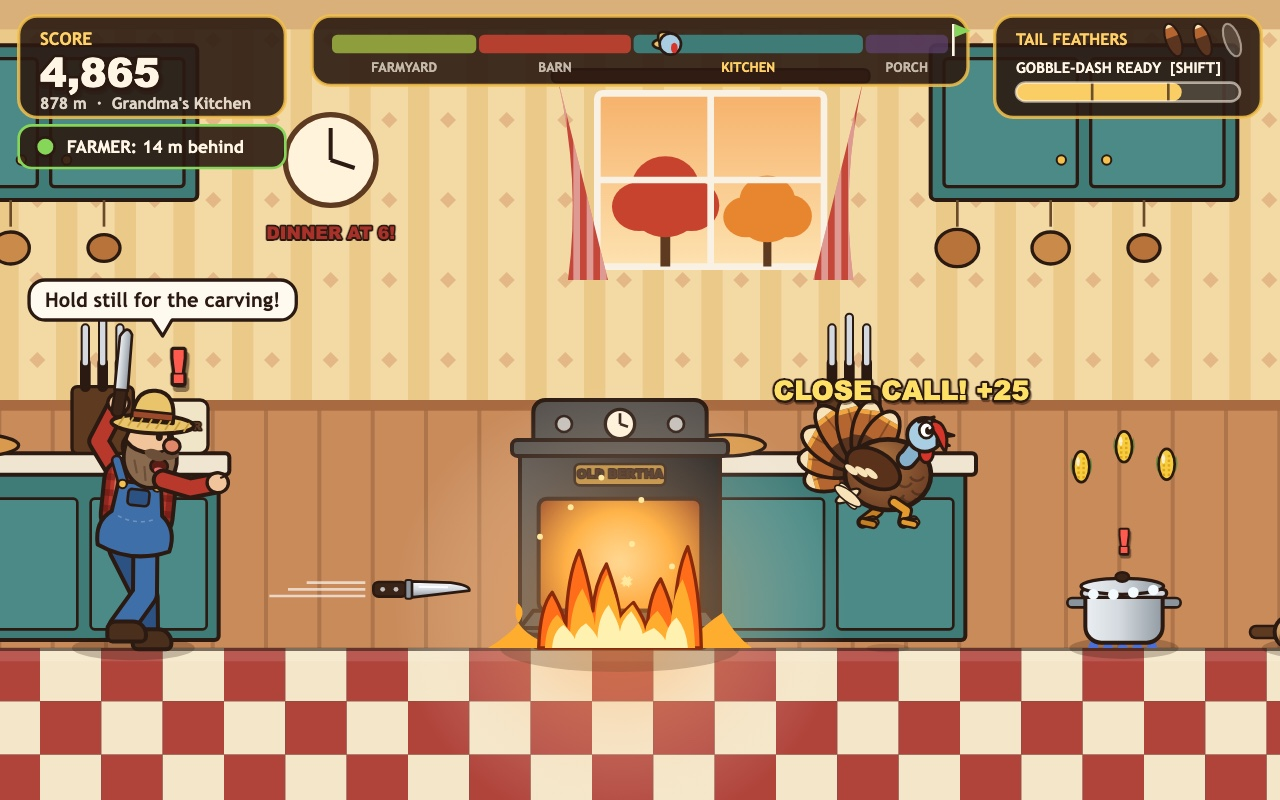
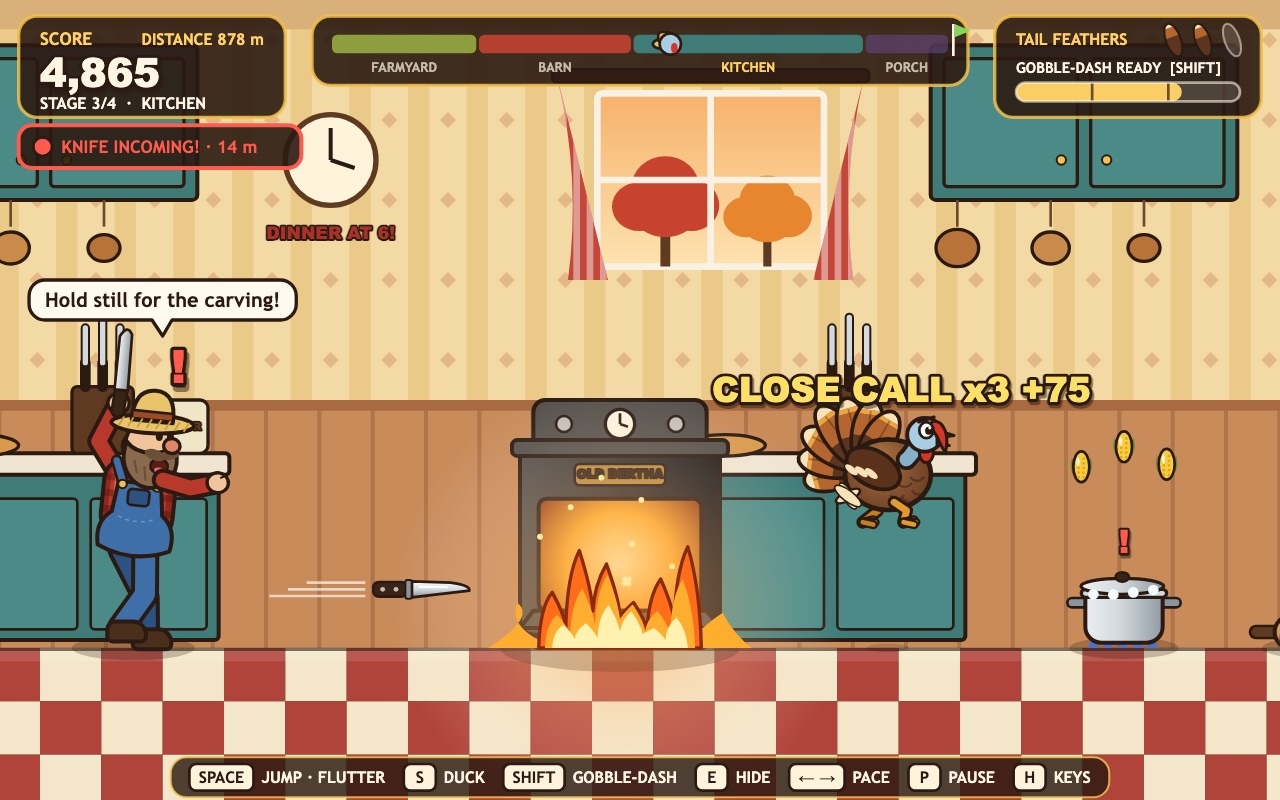
feat: v2 screenshots and README
The cover shows the kitchen chase with the farmer chip, STAGE 3/4, a
x3 close-call combo and the key strip; the title shows the route to
the woods and the wrong-haystack search; a new barn shot shows the
farmer cornering Tom; the end screen shows the medals.

diff --git a/game/src/shots.js b/game/src/shots.js
@@ -8,8 +8,11 @@ import { createRun } from './run.js';
 import { addEntity } from './course.js';
 import { spawnPopup, spawnBurst } from './particles.js';
 import { sayLine } from './farmer.js';
+import { startAmbush } from './ambush.js';
 
-const SAMPLE_BEST = { score: 8640, meters: 1600, escapes: 2 };
+export function stageShot(game, name) {
+  (SHOTS[name] ?? SHOTS.title)(game);
+}
 
 function freshRun(game, stageIndex, time) {
   const run = createRun(game.seed);
@@ -52,7 +55,8 @@ function stageKitchenChase(game) {
   run.score = 4865;
   run.farthestX = turkey.x;
   run.stats.corn = 168;
-  spawnPopup(run.popups, { text: 'CLOSE CALL! +25', x: turkey.x + 10, y: turkey.y - 108, color: '#ffe066', size: 20, life: 0.9 });
+  run.stats.closeCalls = 3;
+  spawnPopup(run.popups, { text: 'CLOSE CALL x3 +75', x: turkey.x + 10, y: turkey.y - 108, color: '#ffe066', size: 26, life: 0.9 });
   run.popups[0].maxLife = 1.1;
   spawnBurst(run.particles, run.effectsRandom, { x: baseX + 40, y: GROUND_Y - 50, count: 12, kind: 'spark', colors: ['#ffe9a0', '#ffd166'], speed: 140, life: 0.8, size: 4, gravity: -60 });
   spawnBurst(run.particles, run.effectsRandom, { x: turkey.x - 30, y: turkey.y - 30, count: 5, kind: 'feather', colors: ['#b5652f', '#f7e2b8'], speed: 90, life: 1.2, size: 7, gravity: 60 });
@@ -96,6 +100,25 @@ function stageBarnDuck(game) {
   run.farthestX = turkey.x;
 }
 
+// The barn ambush: Farmer Bramble popped out ahead of Tom and scoops low, so Tom leaps it.
+function stageBarnCornered(game) {
+  const run = freshRun(game, 1, 58.3);
+  const baseX = stageStartX(1) + 5200;
+  run.camera.x = baseX - 300;
+  addEntity(run.course, 'baleStack', baseX - 250, { w: 80, h: 108 });
+  addEntity(run.course, 'barrel', baseX - 120, { w: 82, h: 98, used: true });
+  const turkey = run.turkey;
+  Object.assign(turkey, { x: baseX + 168, y: GROUND_Y - 112, onGround: false, vy: -150, flutterUsed: false, flapPhase: 0.7, runPhase: 1.1, vx: 292, lives: 3, meter: 46 });
+  startAmbush(run, { high: false, zoneX: baseX });
+  Object.assign(run.farmer, { x: baseX + 300, state: 'swipe', timer: 0.2, runPhase: 0.4 });
+  run.popups.length = 0;
+  sayLine(run.farmer, 'Nowhere to run, Tom!', 2);
+  spawnPopup(run.popups, { text: 'CORNERED!', x: baseX + 330, y: GROUND_Y - 330, color: '#ff5a4e', size: 44, life: 2 });
+  spawnPopup(run.popups, { text: 'Arms low: JUMP over! (or hop his hat)', x: baseX + 330, y: GROUND_Y - 284, color: '#ffe066', size: 19, life: 2, hint: true });
+  run.score = 3175;
+  run.farthestX = turkey.x;
+}
+
 function sampleSummary(outcome) {
   const escaped = outcome === 'escaped';
   return {
@@ -114,8 +137,12 @@ function sampleSummary(outcome) {
     hits: escaped ? 1 : 3,
     dashes: 9,
     smashes: 4,
+    hatHops: escaped ? 2 : 0,
+    ovenCloseCalls: escaped ? 7 : 2,
     rank: escaped ? 'Barnyard Legend' : 'Kitchen Fugitive',
     newBest: escaped,
+    medals: escaped ? ['greatEscape', 'hatHopper', 'ovenDancer', 'ghost'] : [],
+    newMedals: escaped ? ['hatHopper'] : [],
   };
 }
 
@@ -128,6 +155,7 @@ const SHOTS = {
   kitchen: stageKitchenChase,
   hide: stageHaystackHide,
   barn: stageBarnDuck,
+  cornered: stageBarnCornered,
   escaped(game) {
     game.screen = 'ended';
     game.time = 1.6;
@@ -142,6 +170,4 @@ const SHOTS = {
   },
 };
 
-export function stageShot(game, name) {
-  (SHOTS[name] ?? SHOTS.title)(game);
-}
+const SAMPLE_BEST = { score: 8640, meters: 1600, escapes: 2, medals: ['greatEscape', 'hatHopper', 'ovenDancer', 'ghost'] };

diff --git a/README.md b/README.md
@@ -10,9 +10,11 @@
 
 - **Jump, flutter, duck and dash.** Hop hay bales and fences, flutter over tall stacks, duck low beams and tablecloths, and gobble-dash to smash pumpkins and outrun the farmer.
 - **A farmer who hunts you.** He closes in when you stumble, lunges when he is close, and from the barn on he throws carving knives (duck the high ones, jump the low ones).
-- **Hide and sneak.** Dive into a haystack, a barrel or the pantry. He searches, looking at your spot and away. Sneak out while his back is turned, or get a pitchfork poke.
+- **...and corners you.** From the barn on he cries "Shortcut!" and pops out *ahead* of Tom to block the lane. Arms up means a high swipe (duck under it), arms low means a scoop (jump it). Land on his hat, or gobble-dash into him, and he sees stars.
+- **Hide and sneak.** Dive into a haystack, a barrel or the pantry. He searches with his eyes (and a lantern in the barn): an amber cone while he stares at your spot, a faint one when he looks away. Sneak out then, or get a pitchfork poke.
 - **Four stages that get meaner.** The farmyard, the barn, Grandma's kitchen (Old Bertha the oven blasts fire, pots boil over, rolling pins roll) and the front porch at dusk.
-- **Three tail feathers, one chance.** A title screen, a HUD with score, distance, the route and the farmer's distance, and an end screen for *escaped* or *caught*, with your best score kept.
+- **Clear feedback.** A HUD with score, distance, STAGE n/4, the route and a chip that says what the farmer is doing (chasing, knife incoming, searching, cornered, fooled). Close calls chain into combos, hits cost "-1 FEATHER", and a key strip runs along the bottom (H hides it).
+- **Three tail feathers, six medals.** A title screen with the route to the woods, an end screen for *escaped* or *caught* with a restart, your best score, and six medals to win (No Feather Lost, Hat Hopper, Oven Dancer, Ghost...).
 
 Everything is drawn on a canvas and every sound is synthesised live with Web Audio: no images, no audio files, no libraries, and no network requests.
 
@@ -23,7 +25,7 @@ Everything is drawn on a canvas and every sound is synthesised live with Web Aud
 | Right / D, Left / A | Run faster, or slow down to time the oven |
 | Shift / right click | Gobble-dash (corn fills the meter) |
 | E | Hide, then sneak out |
-| P, M | Pause, sound |
+| P, M, H | Pause, sound, key strip |
 
 ## Run it
 
@@ -31,10 +33,11 @@ Everything is drawn on a canvas and every sound is synthesised live with Web Aud
 node serve.ts                                         # play it: open http://localhost:8080 in desktop Chrome
 mkdir -p out && MAKEFUN_OUTPUT_DIR=out node main.ts   # the hand-in program the grader runs
 node tools/simulate-runs.ts 40                        # a bot plays 40 seeded runs headlessly
+node --test test/*.test.js                            # the ambush, combo and medal rules
 node tools/capture-screenshots.ts                     # re-takes screenshots/ with headless Chrome
 ```
 
-Node.js 22.18 or later. `game/` is plain static files with no build step: `game/src/` holds one module per job, including the chase rules (`run.js`, `turkey.js`, `farmer.js`, `course.js`, `hazards.js`), the painters (`art/`), the HUD and screens (`ui/`), sound (`audio.js`) and input (`input.js`). The screenshots are real renders of the game's own code: `?shot=<name>` stages a scene and `tools/capture-screenshots.ts` photographs it.
+Node.js 22.18 or later. `game/` is plain static files with no build step: `game/src/` holds one module per job, including the chase rules (`run.js`, `turkey.js`, `farmer.js`, `ambush.js`, `course.js`, `hazards.js`, `scoring.js`, `medals.js`), the painters (`art/`), the HUD and screens (`ui/`), sound (`audio.js`) and input (`input.js`). The screenshots are real renders of the game's own code: `?shot=<name>` stages a scene and `tools/capture-screenshots.ts` photographs it.
 
 ---
 
